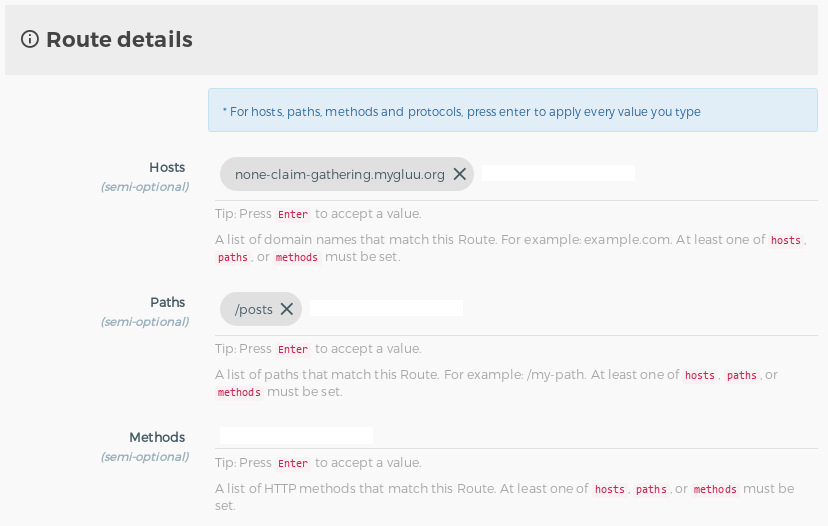
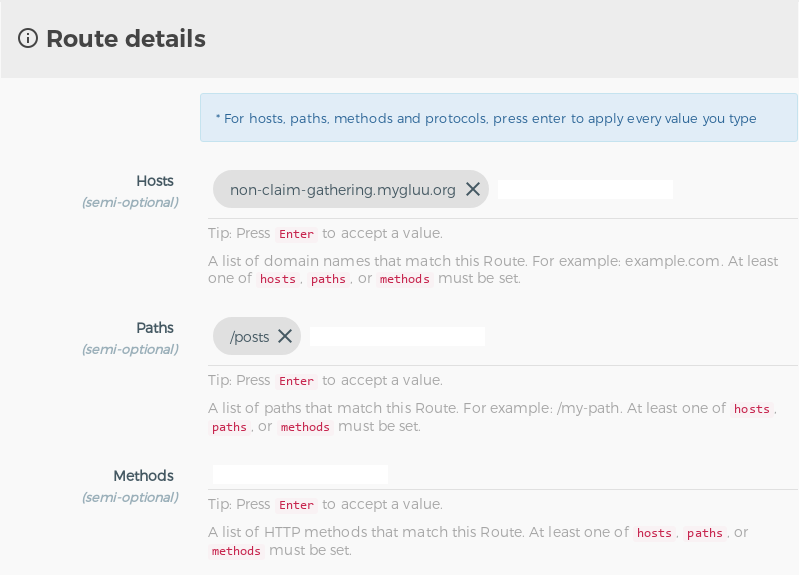
update doc for none-claim to non-claim

diff --git a/gluu_flask_demo/gg_demo_app.py b/gluu_flask_demo/gg_demo_app.py
@@ -15,14 +15,14 @@ op_host = "https://op.mygluu.org"
 api_path = "posts"
 
 # Kong route register with below host
-host_without_claims = "none-claim-gatering.mygluu.org"
-host_with_claims = "claim-gatering.mygluu.org"
+host_without_claims = "non-claim-gathering.mygluu.org"
+host_with_claims = "claim-gathering.mygluu.org"
 
 
 # Consumer client
-client_oxd_id = "ff07da07-76a8-4f01-8d25-78cd5f11cd3c"
-client_id = "@!014E.16BD.1411.4CE7!0001!A63E.5899!0008!6FBF.27B7.507C.44AD"
-client_secret = "1dd53b7f-1ce2-4351-8581-918b96cb678d"
+client_oxd_id = "545f701e-e617-4d6d-96fb-3b04785f8deb"
+client_id = "@!014E.16BD.1411.4CE7!0001!A63E.5899!0008!7A2E.9642.7246.715A"
+client_secret = "e19a90a4-1829-4be6-865d-30213df07f5d"
 
 # You need to add this URL in your consumer client in OP
 claims_redirect_url = "https://rs.mygluu.org:5500/cg"
